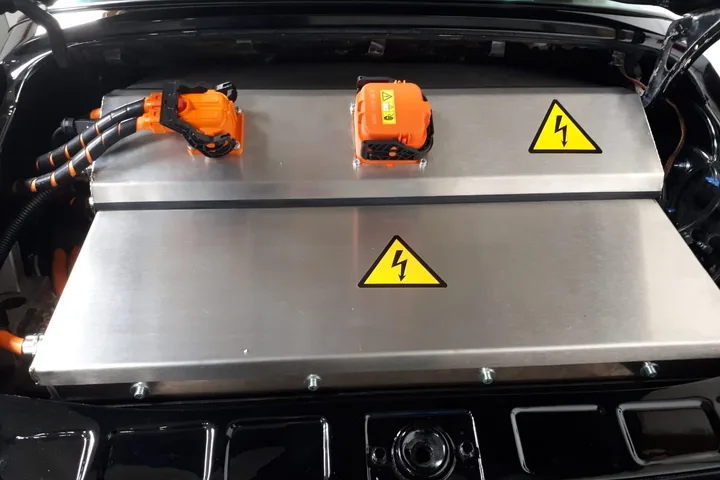
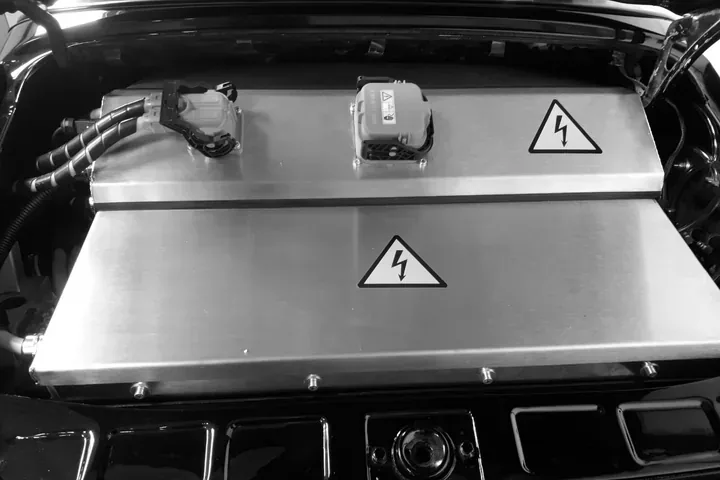
Projektseiten: sechs Stufen als Liste, Zwischenueberschriften, Porsche-Bilder
Der Ablauf steht als HTML-Liste mit Name und Uebergabe je Stufe statt als
SVG mit 11-px-Beschriftung; gefuellte Punkte markieren die Stufen, an denen
ein Mensch entscheidet. Alle vier Seiten haben Zwischenueberschriften. Das
Porsche-Vorschaubild ist in Graustufen, die Fotos kommen per srcset in 800 px
aufs Handy.

diff --git a/assets/styles.css b/assets/styles.css
@@ -452,31 +452,26 @@ footer.footer a:hover { color: var(--fg); }
   footer.footer { border-top: 1px solid #ccc; font-size: 8.5pt; }
 }
 
-/* ------------------------------------------------------- Verfahren, Schema */
-
-.flow { margin: 0 0 var(--sp-8); }
-.flow svg { width: 100%; height: auto; overflow: visible; }
-.flow .bahn { stroke: var(--hair-hell); stroke-width: 1; }
-.flow circle { fill: var(--bg); stroke: var(--fg); stroke-width: 1.5; }
-.flow text { font-family: var(--f); font-size: 15px; fill: var(--mut-hell); }
-.flow figcaption {
-  margin-top: var(--sp-6); font-size: var(--fs-xs); color: var(--mut); max-width: 44rem;
+/* ------------------------------------------------- Ablauf, sechs Stufen */
+/* Als HTML statt SVG: Name und Uebergabe je Stufe, lesbar auf jeder Breite.
+   Schmal untereinander an einer senkrechten Linie, breit nebeneinander an einer
+   waagerechten; gefuellte Punkte sind die Stufen, an denen ein Mensch entscheidet. */
+.ablauf { margin: 0 0 var(--sp-7); }
+.ablauf__liste { list-style: none; margin: 0; padding: 0 0 0 1.4rem; display: grid; gap: var(--sp-4); position: relative; }
+.ablauf__liste::before { content: ""; position: absolute; left: 5px; top: .4em; bottom: .4em; width: 1px; background: var(--hair-hell); }
+.ablauf__liste li { position: relative; margin: 0; }
+.ablauf__liste li::before { content: ""; position: absolute; left: -1.4rem; top: .3em; width: 11px; height: 11px; box-sizing: border-box;
+  border-radius: 50%; background: var(--bg); border: 1.5px solid var(--akzent); }
+.ablauf__liste li.mensch::before { background: var(--akzent); }
+.ablauf__liste b { display: block; font-weight: 500; font-size: var(--fs-md); color: var(--fg); }
+.ablauf__liste li > span { display: block; margin-top: .15rem; font-family: var(--f-mono); font-size: .74rem; line-height: 1.45; color: var(--mut); }
+.ablauf figcaption { margin-top: var(--sp-5); font-size: var(--fs-xs); color: var(--mut); max-width: 44rem; }
+@media (min-width: 54rem) {
+  .ablauf__liste { grid-template-columns: repeat(6, 1fr); gap: var(--sp-4); padding: 0; }
+  .ablauf__liste::before { left: 5px; right: 5px; top: 5px; bottom: auto; width: auto; height: 1px; }
+  .ablauf__liste li { padding-top: 1.3rem; }
+  .ablauf__liste li::before { left: 0; top: 0; }
 }
-
-/* Die Bahn zeichnet sich, danach erscheinen die Stufen nacheinander.
-   Das ist Gestaltung, kein Mitschnitt - der Hinweis steht in der Bildunterschrift. */
-.js .flow .bahn { stroke-dasharray: 900; stroke-dashoffset: 900; }
-.js .flow .knoten { opacity: 0; }
-.js .flow.da .bahn { animation: bahn 1.1s var(--ease) forwards; }
-.js .flow.da .knoten { animation: stufe .5s var(--ease) forwards; animation-delay: calc(.5s + var(--i) * .13s); }
-@keyframes bahn { to { stroke-dashoffset: 0; } }
-@keyframes stufe { from { opacity: 0; transform: translateY(6px); } to { opacity: 1; transform: none; } }
-
-@media (prefers-reduced-motion: reduce) {
-  .js .flow .bahn { stroke-dasharray: none; stroke-dashoffset: 0; }
-  .js .flow .knoten { opacity: 1; }
-}
-@media (max-width: 40rem) { .flow text { font-size: 22px; } }
 
 /* -------------------------------------------------- Wochendiagramm in 04 */
 
@@ -596,7 +591,6 @@ footer.footer a:hover { color: var(--fg); }
 /* ----------------------------------------------- Ablauf und Zahlen im Artikel */
 /* Die Projektseite ist schmaler als die Startseite; die SVG-Beschriftungen
    werden mitskaliert und brauchen deshalb groessere Ausgangswerte. */
-.projektseite .flow text { font-size: 20px; }
 .projektseite .chart .achse, .projektseite .chart .marke-text { font-size: 17px; }
 .projektseite .chart .wert { font-size: 20px; }
 .projektseite .zahlen { margin-bottom: var(--sp-7); }
@@ -679,7 +673,6 @@ a:hover { border-bottom-color: var(--akzent); }
 .chart .balken--neu rect { fill: var(--akzent); }
 .chart .balken:hover rect { fill: var(--akzent); }
 .chart .wert { fill: var(--akzent); }
-.flow circle { stroke: var(--akzent); }
 .zahl:first-child .w { color: var(--akzent); }
 .stufe:first-child .stufe__bar { background: var(--akzent); }
 .vier td.e { color: var(--akzent); }
@@ -702,9 +695,9 @@ a:hover { border-bottom-color: var(--akzent); }
 /* Mono fuer Meta */
 .marke, .station__when, .engagement, .gruppe, .tags, .status, .topbar__nav a, .langswitch button,
 .kennzahlen dt, .zahl .b, .level, .projekt__link, .station__org, .station__ort, .skills__group h3,
-footer.footer, .chart text, .flow text, .stufe__text, .badge, .projektseite__meta, .projektseite .back,
+footer.footer, .chart text, .stufe__text, .badge, .projektseite__meta, .projektseite .back,
 .pdf__hinweis, .tbl caption, .tbl th, .aufbau .rolle, .aufbau .rahmen-text, .bild figcaption,
-.flow figcaption, .chart figcaption, .stufen figcaption, .aufbau figcaption, .alle summary {
+.ablauf figcaption, .chart figcaption, .stufen figcaption, .aufbau figcaption, .alle summary {
   font-family: var(--f-mono); letter-spacing: 0; text-transform: none;
 }
 .marke { font-size: .78rem; }
@@ -790,15 +783,15 @@ footer.footer, .chart text, .flow text, .stufe__text, .badge, .projektseite__met
 }
 .pipe__kopf { display: flex; justify-content: space-between; margin-bottom: 1rem; }
 .pipe__kopf b { color: var(--mut-hell); font-weight: 500; }
-.pipe__stufen { position: relative; display: grid; grid-template-columns: repeat(4, 1fr); margin-bottom: .6rem; }
-.pipe__stufen::before { content: ""; position: absolute; left: 12.5%; right: 12.5%; top: 6px; height: 1px; background: var(--hair-hell); }
-.pipe__stufe { position: relative; text-align: center; }
+.pipe__stufen { position: relative; display: grid; grid-template-columns: repeat(6, 1fr); margin-bottom: .6rem; }
+.pipe__stufen::before { content: ""; position: absolute; left: calc(100% / 12); right: calc(100% / 12); top: 6px; height: 1px; background: var(--hair-hell); }
+.pipe__stufe { position: relative; text-align: center; font-size: .64rem; }
 .pipe__dot { display: block; width: 13px; height: 13px; margin: 0 auto .45rem; border-radius: 50%; border: 1.5px solid var(--hair-hell); background: var(--bg); transition: border-color .3s, background .3s; }
 .pipe__stufe.aktiv .pipe__dot { border-color: var(--akzent); box-shadow: 0 0 0 3px color-mix(in srgb, var(--akzent) 22%, transparent); }
 .pipe__stufe.ok .pipe__dot { border-color: var(--akzent); background: var(--akzent); }
 .pipe__bahn { position: relative; height: 1.9rem; margin-bottom: .8rem; transition: height .4s var(--ease); }
 .pipe__ticket {
-  position: absolute; top: 0; left: 0; width: 25%; display: flex; justify-content: center;
+  position: absolute; top: 0; left: 0; width: calc(100% / 6); display: flex; justify-content: center;
   transition: transform .55s var(--ease), opacity .4s var(--ease); will-change: transform;
 }
 .pipe__ticket span { border: 1px solid var(--hair-hell); border-radius: 5px; padding: .2rem .45rem; background: var(--bg); color: var(--fg); font-size: .7rem; white-space: nowrap; }
@@ -898,9 +891,23 @@ footer.footer, .chart text, .flow text, .stufe__text, .badge, .projektseite__met
   .stack { display: none; }
   .status { flex-direction: column; gap: var(--sp-1); }
   .status > span + span::before { content: none; margin: 0; }
+  .pipe__stufe { font-size: .56rem; }
 }
 @media (max-width: 64rem) { .pipeline { margin-top: var(--sp-6); } }
 /* Projektlinks brechen nicht mitten im Text um. */
 .projekt__link a { white-space: nowrap; }
 /* Solange die Rubrik keine eigene Spalte hat, gehoert sie dicht an ihre Ueberschrift. */
 @media (max-width: 59.98rem) { main > section.wrap:not(.hero) > .marke { margin-bottom: var(--sp-3); } }
+
+/* Zwischenueberschriften der Projektseiten, mit demselben #-Zeichen wie die
+   Einsaetze im Werdegang. */
+.projektseite .abschnitt { font-size: var(--fs-xl); font-weight: 500; letter-spacing: -.01em; margin: 0 0 var(--sp-4); max-width: 40rem; }
+.projektseite .abschnitt::before { content: "# "; color: var(--akzent); font-family: var(--f-mono); font-size: .8em; }
+/* Externe Links im Kontakt tragen denselben Pfeil wie im Werdegang. */
+.kontakt__links a[href^="http"]::after { content: " ↗"; }
+/* Stationskopf auf dem Handy: Firma und Ort in einer Zeile statt vier Zeilen Meta. */
+@media (max-width: 53.98rem) {
+  .station:not(.station--kompakt) .station__org, .station:not(.station--kompakt) .station__ort { display: inline; margin: 0; }
+  .station:not(.station--kompakt) .station__ort::before { content: " · "; }
+  .station:not(.station--kompakt) .station__ort + .station__kurz { margin-top: var(--sp-4); }
+}

diff --git a/agentische-entwicklung.html b/agentische-entwicklung.html
@@ -84,53 +84,29 @@
     </div>
   </dl>
 
+  <h2 class="abschnitt"><span lang="de">Der Ablauf</span><span lang="en">The process</span></h2>
   <div class="prose" lang="de"><p>Mit KI-Werkzeugen entwickelt hat das Team schon, bevor ich im Juli 2026 dazukam. Einen gemeinsamen Ablauf dafür gab es nicht. Ich habe deshalb den Weg vom Ticket bis zum Merge in sechs Stufen zerlegt und für jede festgelegt, was sie an die nächste übergibt. Das Produkt ist ein Testmanagement-Werkzeug, das Team besteht aus vier Entwicklern, der Code liegt in einem Repository.</p></div>
   <div class="prose" lang="en"><p>The team was already using AI tools when I joined in July 2026. It had no shared process for them. So I split the path from ticket to merge into six stages and defined what each one hands to the next. The product is a test management tool, the team is four developers, the code lives in one repository.</p></div>
 
-  <figure class="flow auf">
-  <svg viewBox="0 0 960 118" role="img" aria-labelledby="flow-titel">
-    <title id="flow-titel"><span lang="de">Ablauf: Ticket, Plan, Umsetzung, Review, Sicherheit, Abnahme</span><span lang="en">Flow: ticket, plan, build, review, security, sign-off</span></title>
-    <line class="bahn" x1="30" y1="46" x2="930" y2="46"/>
-  <g class="knoten" style="--i: 0">
-    <circle cx="30" cy="46" r="5"/>
-    <text x="30" y="76" text-anchor="middle" lang="de">Ticket</text>
-    <text x="30" y="76" text-anchor="middle" lang="en">Ticket</text>
-  </g>
-  <g class="knoten" style="--i: 1">
-    <circle cx="210" cy="46" r="5"/>
-    <text x="210" y="76" text-anchor="middle" lang="de">Plan</text>
-    <text x="210" y="76" text-anchor="middle" lang="en">Plan</text>
-  </g>
-  <g class="knoten" style="--i: 2">
-    <circle cx="390" cy="46" r="5"/>
-    <text x="390" y="76" text-anchor="middle" lang="de">Umsetzung</text>
-    <text x="390" y="76" text-anchor="middle" lang="en">Build</text>
-  </g>
-  <g class="knoten" style="--i: 3">
-    <circle cx="570" cy="46" r="5"/>
-    <text x="570" y="76" text-anchor="middle" lang="de">Review</text>
-    <text x="570" y="76" text-anchor="middle" lang="en">Review</text>
-  </g>
-  <g class="knoten" style="--i: 4">
-    <circle cx="750" cy="46" r="5"/>
-    <text x="750" y="76" text-anchor="middle" lang="de">Sicherheit</text>
-    <text x="750" y="76" text-anchor="middle" lang="en">Security</text>
-  </g>
-  <g class="knoten" style="--i: 5">
-    <circle cx="930" cy="46" r="5"/>
-    <text x="930" y="76" text-anchor="middle" lang="de">Abnahme</text>
-    <text x="930" y="76" text-anchor="middle" lang="en">Sign-off</text>
-  </g>
-  </svg>
+  <figure class="ablauf auf">
+    <ol class="ablauf__liste">
+      <li><b>Ticket</b><span><span lang="de">Aufgabe mit Ziel und Rahmen</span><span lang="en">Task with goal and scope</span></span></li>
+      <li class="mensch"><b>Plan</b><span><span lang="de">Umsetzungsplan; riskante Änderungen gibt ein Mensch frei</span><span lang="en">Implementation plan; a human approves risky changes</span></span></li>
+      <li><b><span lang="de">Umsetzung</span><span lang="en">Build</span></b><span><span lang="de">Code mit grünen Tests</span><span lang="en">Code with green tests</span></span></li>
+      <li><b>Review</b><span><span lang="de">Prüfergebnis: ok oder Änderungswunsch</span><span lang="en">Verdict: ok or change request</span></span></li>
+      <li><b><span lang="de">Sicherheit</span><span lang="en">Security</span></b><span><span lang="de">Sicherheitsprüfung bestanden</span><span lang="en">Security check passed</span></span></li>
+      <li class="mensch"><b><span lang="de">Abnahme</span><span lang="en">Sign-off</span></b><span><span lang="de">Ein Mensch prüft, nimmt ab und mergt</span><span lang="en">A human reviews, signs off and merges</span></span></li>
+    </ol>
     <figcaption>
-      <span lang="de">Schema. Jede Stufe übergibt der nächsten ein festgelegtes Ergebnis; ohne dieses Ergebnis startet die nächste nicht.</span>
-      <span lang="en">Schematic. Each stage hands the next a defined result; without it, the next stage does not start.</span>
+      <span lang="de">Jede Stufe übergibt der nächsten das genannte Ergebnis; ohne dieses Ergebnis startet die nächste nicht. Gefüllte Punkte: hier entscheidet ein Mensch.</span>
+      <span lang="en">Each stage hands the next the result named here; without it, the next stage does not start. Filled dots: a human decides here.</span>
     </figcaption>
   </figure>
 
   <div class="prose" lang="de"><p>Die Agenten arbeiten in getrennten Rollen für Planung, Umsetzung und Review, mit definierten Übergaben dazwischen. An zwei Stellen steht ein Mensch im Ablauf: Riskante Änderungen gibt jemand aus dem Team frei, und gemergt wird erst nach einem menschlichen Review. Eine eigene Sicherheitsprüfung läuft vor der Abnahme. Die Regeln dafür habe ich aufgeschrieben und das Team darin eingearbeitet.</p></div>
   <div class="prose" lang="en"><p>The agents work in separate roles for planning, implementation and review, with defined handovers in between. A human is in the loop at two points: someone on the team approves risky changes, and nothing is merged without a human review. A dedicated security check runs before sign-off. I wrote the rules down and onboarded the team.</p></div>
 
+  <h2 class="abschnitt"><span lang="de">Die Messung</span><span lang="en">The measurement</span></h2>
   <div class="prose" lang="de"><p>Gemessen habe ich an den gemergten Pull Requests des Repositories, ausgelesen aus GitHub. Vorher sind 27 Wochen mit 721 Pull Requests, nachher drei Wochen mit 407. Die Kennzahlen sind in beiden Zeiträumen dieselben: Pull Requests je Woche, Zeit bis zum Merge, Änderungswünsche und Nachbesserungsrunden je Pull Request und die Größe der Änderungen.</p></div>
   <div class="prose" lang="en"><p>I measured on the repository's merged pull requests, pulled from GitHub: 27 weeks and 721 pull requests before, three weeks and 407 after. The metrics are the same for both periods: pull requests per week, time to merge, change requests and rework rounds per pull request, and the size of the changes.</p></div>
 
@@ -213,6 +189,7 @@
   <div class="prose" lang="de"><p>Der Durchsatz hat sich verfünffacht, und die Pull Requests brauchen weniger Korrekturen: 72 % weniger Änderungswünsche und halb so viele Nachbesserungsrunden je Pull Request. Die Gegenprobe ist die Größe der Änderungen. Sie liegt mit 578 Zeilen im Median leicht über den 522 von vorher. Der Durchsatz kommt also nicht daher, dass die Arbeit in mehr Stücke geschnitten wurde.</p></div>
   <div class="prose" lang="en"><p>Throughput went up fivefold, and the pull requests need fewer corrections: 72 % fewer change requests and half the rework rounds per pull request. The counter-check is the size of the changes: a median of 578 lines, slightly above the 522 before. So the throughput did not come from slicing the work into smaller pieces.</p></div>
 
+  <h2 class="abschnitt"><span lang="de">Was die Zahlen nicht sagen</span><span lang="en">What the figures do not say</span></h2>
   <div class="prose" lang="de"><p>Drei Wochen gegen 27 bleiben eine dünne Vergleichsbasis. In die drei Wochen fiel außerdem ein großes Vorhaben, das einen Teil des Sprungs erklären kann. Die Zahlen hier sind der Stand vom 09.10.2026.</p></div>
   <div class="prose" lang="en"><p>Three weeks against 27 is still a thin baseline. A large piece of work also fell into those three weeks, which may explain part of the jump. The figures here are as of 9 October 2026.</p></div>
 

diff --git a/porsche.html b/porsche.html
@@ -88,8 +88,9 @@
   <div class="prose" lang="de"><p>Am Anfang stand ein schwarzer Porsche 911 Targa von 1981 ohne Motor. Zusammen mit Marc Zemelka und seinem Vater habe ich ihn ab 2017 auf Elektroantrieb umgebaut, in einer kleinen Werkstatt in Darmstadt, die wir unter dem Namen Z-Motors betrieben haben. Ich habe damals Mechatronik studiert, und das hier war der Teil des Studiums, der nicht im Hörsaal stattfand. Vor dem ersten Handgriff lagen Monate, in denen wir gerechnet, gezeichnet und wieder verworfen haben.</p></div>
   <div class="prose" lang="en"><p>It started with a black 1981 Porsche 911 Targa with no engine. From 2017 onwards I converted it to electric drive together with Marc Zemelka and his father, in a small workshop in Darmstadt that we ran under the name Z-Motors. I was studying mechatronics at the time, and this was the part of the degree that did not happen in a lecture hall. Before the first bolt was turned, months went into calculating, drawing and discarding.</p></div>
 
+  <h2 class="abschnitt"><span lang="de">Die Batterie</span><span lang="en">The battery</span></h2>
   <figure class="bild">
-    <img src="assets/porsche/batterie-heck.jpg" width="1400" height="1051" loading="lazy" decoding="async"
+    <img src="assets/porsche/batterie-heck.jpg" srcset="assets/porsche/batterie-heck-800.jpg 800w, assets/porsche/batterie-heck.jpg 1400w" sizes="(min-width: 46rem) 40rem, 100vw" width="1400" height="1051" loading="lazy" decoding="async"
          alt="Batteriekasten im früheren Motorraum des Porsche 911">
     <figcaption><span lang="de">Der hintere Batteriekasten sitzt dort, wo vorher der Motor war.</span><span lang="en">The rear battery box sits where the engine used to be.</span></figcaption>
   </figure>
@@ -97,8 +98,9 @@
   <div class="prose" lang="de"><p>Den Antrieb liefern sieben Lithium-Ionen-Module aus einem zerlegten Tesla, zusammen 175 Volt und rund 37 Kilowattstunden. Sie sitzen vorn im Kofferraum und hinten im früheren Motorraum, und zwar nicht dort, wo Platz war, sondern dort, wo die Gewichtsverteilung des Originals erhalten bleibt. Bei einem 911 mit seinem Heckmotor ist das keine Feinheit, sondern der Grund, warum sich der Wagen so fährt, wie er sich fährt. Ein paar Kilogramm an der falschen Stelle hätte man in der ersten Kurve gemerkt.</p></div>
   <div class="prose" lang="en"><p>Seven lithium-ion modules from a dismantled Tesla provide the drive, 175 volts and roughly 37 kilowatt hours in total. They sit in the front trunk and in the former engine bay, placed not where there was room but where the original weight distribution is preserved. On a rear-engined 911 that is not a detail; it is the reason the car drives the way it does. A few kilograms in the wrong place would have shown up in the first corner.</p></div>
 
+  <h2 class="abschnitt"><span lang="de">Die Gehäuse</span><span lang="en">The housings</span></h2>
   <figure class="bild">
-    <img src="assets/porsche/batterie-front.jpg" width="1400" height="1051" loading="lazy" decoding="async"
+    <img src="assets/porsche/batterie-front.jpg" srcset="assets/porsche/batterie-front-800.jpg 800w, assets/porsche/batterie-front.jpg 1400w" sizes="(min-width: 46rem) 40rem, 100vw" width="1400" height="1051" loading="lazy" decoding="async"
          alt="Batteriekasten im vorderen Kofferraum des Porsche 911">
     <figcaption><span lang="de">Das vordere Paket, gesetzt für die Gewichtsverteilung des Originals.</span><span lang="en">The front pack, positioned to hold the original weight distribution.</span></figcaption>
   </figure>
@@ -106,8 +108,9 @@
   <div class="prose" lang="de"><p>Die Gehäuse dafür haben wir in CAD entworfen und an Modellen geprüft, bevor wir sie gebaut haben. Blech ist geduldiger als Software, aber auch teurer: Ein Gehäuse, das zwei Millimeter zu groß ist, merkt man erst beim Einbau, und dann fängt man von vorn an. Das ist derselbe Gedanke, den ich heute in Software verfolge — lieber vorher prüfen, ob eine Annahme trägt, als hinterher zu reparieren.</p></div>
   <div class="prose" lang="en"><p>We designed the housings in CAD and checked them against physical models before building them. Sheet metal is more patient than software, but also more expensive: a housing two millimetres too large only shows up during installation, and then you start again. It is the same idea I follow in software today — check whether an assumption holds before you build on it, rather than repairing afterwards.</p></div>
 
+  <h2 class="abschnitt"><span lang="de">Laden</span><span lang="en">Charging</span></h2>
   <figure class="bild">
-    <img src="assets/porsche/ladegeraet.jpg" width="1400" height="1051" loading="lazy" decoding="async"
+    <img src="assets/porsche/ladegeraet.jpg" srcset="assets/porsche/ladegeraet-800.jpg 800w, assets/porsche/ladegeraet.jpg 1400w" sizes="(min-width: 46rem) 40rem, 100vw" width="1400" height="1051" loading="lazy" decoding="async"
          alt="Eingebautes Ladegerät im Porsche 911">
     <figcaption><span lang="de">Das eingebaute Ladegerät — der Wagen lädt an einer normalen Garagensteckdose.</span><span lang="en">The on-board charger — the car charges from a normal garage socket.</span></figcaption>
   </figure>
@@ -115,8 +118,9 @@
   <div class="prose" lang="de"><p>Das Ladegerät sitzt fest im Wagen, und geladen wird an einer gewöhnlichen Steckdose in der Garage. Das war uns wichtiger als eine kurze Ladezeit: Ein Auto, für das man erst eine Wallbox braucht, steht am Ende öfter herum. Rund 200 Kilometer kommen so zusammen, die Höchstgeschwindigkeit liegt bei 180.</p></div>
   <div class="prose" lang="en"><p>The charger is built into the car, and it charges from an ordinary socket in the garage. That mattered more to us than a short charging time: a car that first needs a wallbox ends up standing still more often. The result is a range of about 200 kilometres and a top speed of 180.</p></div>
 
+  <h2 class="abschnitt"><span lang="de">Innen</span><span lang="en">Inside</span></h2>
   <figure class="bild">
-    <img src="assets/porsche/schalthebel.jpg" width="1400" height="1050" loading="lazy" decoding="async"
+    <img src="assets/porsche/schalthebel.jpg" srcset="assets/porsche/schalthebel-800.jpg 800w, assets/porsche/schalthebel.jpg 1400w" sizes="(min-width: 46rem) 40rem, 100vw" width="1400" height="1050" loading="lazy" decoding="async"
          alt="Originaler Schalthebel und Mittelkonsole im umgebauten Porsche 911">
     <figcaption><span lang="de">Schalthebel und Konsole sind original geblieben. Das Getriebe auch.</span><span lang="en">Gear lever and console stayed original. So did the transmission.</span></figcaption>
   </figure>

diff --git a/investment-plattform.html b/investment-plattform.html
@@ -84,12 +84,15 @@
     </div>
   </dl>
 
+  <h2 class="abschnitt"><span lang="de">Der Auftrag</span><span lang="en">The brief</span></h2>
   <div class="prose" lang="de"><p>Ein privater Auftraggeber investiert in Immobilien und wollte seine Arbeit vom ersten Exposé bis zum Bestand in einer Anwendung haben: Deals in einer Pipeline führen, Unterlagen in einem Datenraum ablegen, Kennzahlen rechnen, entscheiden, das Portfolio verwalten. Dafür gab es ein Lastenheft. Daraus habe ich einen Plan mit dreizehn Phasen gemacht, von Fundament und Rechten über Rechenkern und Entscheidung bis zu Portfolio, Posteingang und Deal-Suche. Code und Anwendung gehören dem Auftraggeber und sind nicht öffentlich.</p></div>
   <div class="prose" lang="en"><p>A private client invests in real estate and wanted the whole workflow, from the first listing to the portfolio, in one application: deals in a pipeline, documents in a data room, the numbers calculated, decisions recorded, the portfolio managed. He had written a requirements specification. From it I made a plan with thirteen phases, from foundation and permissions through calculation core and decision support to portfolio, inbox and deal sourcing. Code and application belong to the client and are not public.</p></div>
 
+  <h2 class="abschnitt"><span lang="de">Wie es gebaut wurde</span><span lang="en">How it was built</span></h2>
   <div class="prose" lang="de"><p>Gebaut habe ich in nummerierten Runden mit Agenten, jede Runde ein abgegrenztes Stück aus dem Plan: Umsetzung, Prüfung, Merge. 434 Commits in drei Wochen. Die Anwendung ist ein TypeScript-Monorepo mit Rechenkern, Domänenschicht und Datenbank als eigenen Paketen und der Weboberfläche darüber. Der Rechenkern ist gegen die Tabellenkalkulation abgeglichen, mit der der Auftraggeber bisher gerechnet hat; drei Referenzfälle daraus laufen als Golden-Tests mit.</p></div>
   <div class="prose" lang="en"><p>I built it in numbered rounds with agents, each round a bounded slice of the plan: build, check, merge. 434 commits in three weeks. The application is a TypeScript monorepo with the calculation core, the domain layer and the database as separate packages and the web front end on top. The calculation core is reconciled against the spreadsheet the client had been using; three reference cases from it run as golden tests.</p></div>
 
+  <h2 class="abschnitt"><span lang="de">Wie es getestet wurde</span><span lang="en">How it was tested</span></h2>
   <figure class="stufen auf">
     <div class="stufe" style="--b: 28%"><span class="stufe__bar"></span><span class="stufe__text"><span lang="de"><b>Funktionstest Ende-zu-Ende</b> — vier Agenten, jede Funktion einmal durch</span><span lang="en"><b>End-to-end functional test</b> — four agents, every function once</span></span></div>
     <div class="stufe" style="--b: 44%"><span class="stufe__bar"></span><span class="stufe__text"><span lang="de"><b>QA-Runden</b> — sechs Prüf-Agenten in festen Rollen, Desktop und Handy</span><span lang="en"><b>QA rounds</b> — six test agents in fixed roles, desktop and mobile</span></span></div>
@@ -104,9 +107,11 @@
   <div class="prose" lang="de"><p>Die QA-Runden sind der Teil, der aus dem Testen kommt. Sechs Agenten mit festen Rollen, von Akquise über Analyst und Investor bis Admin, gehen die Anwendung auf Desktop und Handy so durch, wie ihre Nutzergruppe sie benutzen würde, und schreiben jeden Befund mit Beleg auf. Die zweite Runde brachte 92 Befunde, von Dezimaleingaben über Rechteprüfungen bis zu Handy-Layouts; alle sind umgesetzt. Danach haben vier Agenten jede Funktion Ende-zu-Ende geprüft, und aus dem, was sie fanden, ist eine dauerhafte E2E-Suite geworden.</p></div>
   <div class="prose" lang="en"><p>The QA rounds are where my testing background shows. Six agents with fixed roles, from acquisition through analyst and investor to admin, work through the application on desktop and mobile the way their user group would, and write down every finding with evidence. The second round produced 92 findings, from decimal input through permission checks to mobile layouts; all of them resolved. After that, four agents checked every function end to end, and what they found became a permanent E2E suite.</p></div>
 
+  <h2 class="abschnitt"><span lang="de">Agenten in der Anwendung</span><span lang="en">Agents inside the application</span></h2>
   <div class="prose" lang="de"><p>Die Anwendung hat selbst Agenten. Einer ordnet eingehende E-Mails den Deals zu, legt Anhänge im Datenraum ab und stößt die Extraktion an; ein zweiter liest Inserate aus Suchauftrags-Mails und prüft sie gegen die Buy Box. Beide laufen über ein Gateway mit drei Freigabestufen, die der Auftraggeber je Aktionstyp einstellt. Was Geld bewegt, also Kaufangebote, Provisions- und Widerrufsbestätigungen, ist fest auf menschliche Freigabe kodiert und lässt sich in den Einstellungen nicht lockern.</p></div>
   <div class="prose" lang="en"><p>The application has agents of its own. One assigns incoming emails to deals, files attachments in the data room and triggers extraction; a second reads listings from search-alert emails and checks them against the buy box. Both run through a gateway with three approval levels that the client sets per action type. Anything that moves money, meaning purchase offers, commission and withdrawal confirmations, is hard-coded to require human approval and cannot be relaxed in the settings.</p></div>
 
+  <h2 class="abschnitt"><span lang="de">Betrieb</span><span lang="en">Operations</span></h2>
   <div class="prose" lang="de"><p>Betrieben wird die Anwendung auf einem eigenen Server in Nürnberg: ein Docker-Stack mit Reverse-Proxy und HTTPS, Postgres, dem Worker im Prozess und einer täglichen Sicherung, für rund fünf Euro im Monat. Die Einrichtung ist ein Skript, die Daten bleiben in Deutschland.</p></div>
   <div class="prose" lang="en"><p>The application runs on a dedicated server in Nuremberg: a Docker stack with reverse proxy and HTTPS, Postgres, an in-process worker and daily backups, for about five euros a month. Setup is a single script, and the data stays in Germany.</p></div>
 

diff --git a/testautomatisierung.html b/testautomatisierung.html
@@ -88,6 +88,7 @@
   <div class="prose" lang="de"><p>Die Anwendung ist der „Toolshop", ein kleiner Online-Shop, den es nur zum Üben gibt: Angular vorn, eine PHP-API dahinter, eine Datenbank darunter. Interessant ist nicht der Shop, sondern das Gerüst darum. Ich habe es so gebaut, wie ich ein Automatisierungsprojekt beim Kunden aufsetzen würde: Ein Befehl bringt die Umgebung hoch, die Datenbank wird jedes Mal gleich befüllt, Smoke- und Regressionstests sind getrennt, und jeder Lauf hinterlässt seine Artefakte an einer festen Stelle.</p></div>
   <div class="prose" lang="en"><p>The application is the “Toolshop”, a small online shop that exists only for practice: Angular at the front, a PHP API behind it, a database underneath. The interesting part is not the shop but the harness around it. I built it the way I would set up an automation project for a client: one command brings up the environment, the database is seeded the same way every time, smoke and regression tests are separate, and every run leaves its artefacts in a fixed place.</p></div>
 
+  <h2 class="abschnitt"><span lang="de">Der Aufbau</span><span lang="en">The setup</span></h2>
   <figure class="aufbau auf">
     <svg viewBox="0 0 960 300" role="img" aria-labelledby="aufbau-titel">
       <title id="aufbau-titel"><span lang="de">Aufbau: drei Testläufer oben, der Docker-Compose-Stack darunter</span><span lang="en">Structure: three test runners on top, the Docker Compose stack below</span></title>
@@ -150,12 +151,15 @@
   <div class="prose" lang="de"><p>Die Umgebung ist ein Docker-Compose-Stack aus Oberfläche, Gateway, API und Datenbank. Ein Makefile ist der einzige Einstieg: <code>make up</code>, <code>make seed</code>, <code>make smoke</code>, <code>make regression</code>, dieselben Ziele lokal wie in GitHub Actions. Das Seeding wartet, bis API und Datenbank antworten, spielt die Daten ein und prüft danach die Produktanzahl, bevor ein Test startet.</p></div>
   <div class="prose" lang="en"><p>The environment is a Docker Compose stack of front end, gateway, API and database. A Makefile is the only entry point: <code>make up</code>, <code>make seed</code>, <code>make smoke</code>, <code>make regression</code>, the same targets locally as in GitHub Actions. Seeding waits until API and database respond, loads the data and then checks the product count before any test starts.</p></div>
 
+  <h2 class="abschnitt"><span lang="de">Drei Ebenen</span><span lang="en">Three levels</span></h2>
   <div class="prose" lang="de"><p>Getestet wird auf drei Ebenen. Die Oberfläche prüft Robot Framework mit der Browser-Bibliothek: 15 Smoke-Tests, die bei jedem Pull Request laufen, und 20 Regressionstests für den Hauptzweig, von Filtern und Suche über Produktdetails bis zum Warenkorb. Die API prüft pytest gegen den OpenAPI-Vertrag; was der Vertrag nicht beschreibt, wird übersprungen statt als Fehler gezählt. Die Last prüft k6 in vier Szenarien, nachts Ramp und Peak, wöchentlich Soak, mit Schwellen bei 1,5 Sekunden für das 95. und 3 Sekunden für das 99. Perzentil. Jeder Lauf schreibt Berichte und Screenshots in einen nummerierten Ordner.</p></div>
   <div class="prose" lang="en"><p>Testing happens on three levels. Robot Framework with the Browser library covers the user interface: 15 smoke tests that run on every pull request and 20 regression tests for the main branch, from filters and search through product details to the cart. pytest checks the API against the OpenAPI contract; what the contract does not describe is skipped rather than counted as a failure. k6 covers load in four scenarios, ramp and peak nightly, soak weekly, with thresholds of 1.5 seconds at the 95th and 3 seconds at the 99th percentile. Every run writes reports and screenshots into a numbered folder.</p></div>
 
+  <h2 class="abschnitt"><span lang="de">Was die Suite gefunden hat</span><span lang="en">What the suite found</span></h2>
   <div class="prose" lang="de"><p>Gefunden hat die Suite dabei einen Fehler in der Anwendung selbst: Das Sortieren der Produktliste über die API antwortet durchgehend mit einem Serverfehler. Der Regressionstest für die Preissortierung hält das fest, und im README steht, woran man den Unterschied zwischen einem Fehler in der Anwendung und einer wackligen Automatisierung erkennt.</p></div>
   <div class="prose" lang="en"><p>Along the way the suite found a defect in the application itself: sorting the product list through the API consistently returns a server error. The regression test for sorting by price records it, and the README explains how to tell a defect in the application from flaky automation.</p></div>
 
+  <h2 class="abschnitt"><span lang="de">Stand</span><span lang="en">Status</span></h2>
   <div class="prose" lang="de"><p>52 Commits zwischen Dezember 2025 und Februar 2026. Seit das Projekt fertig ist, sind die Pipelines abgeschaltet; der letzte Lauf war grün. Der Code ist öffentlich, mit Testplan, Architekturbeschreibung und Anleitung zum Nachstellen.</p></div>
   <div class="prose" lang="en"><p>52 commits between December 2025 and February 2026. With the project finished, the pipelines are switched off; the last run was green. The code is public, with a test plan, an architecture description and instructions for reproducing it.</p></div>
 
